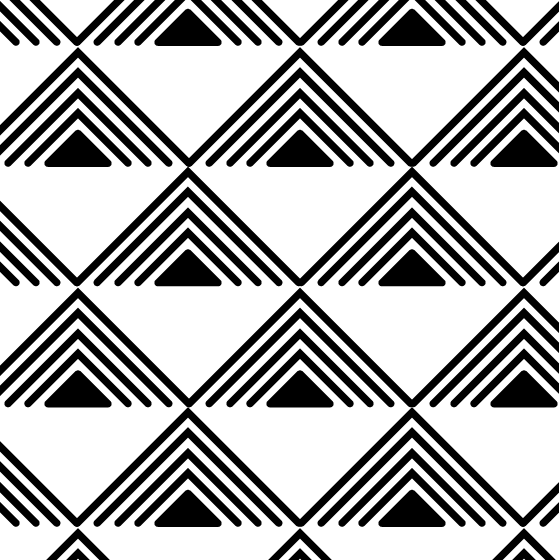
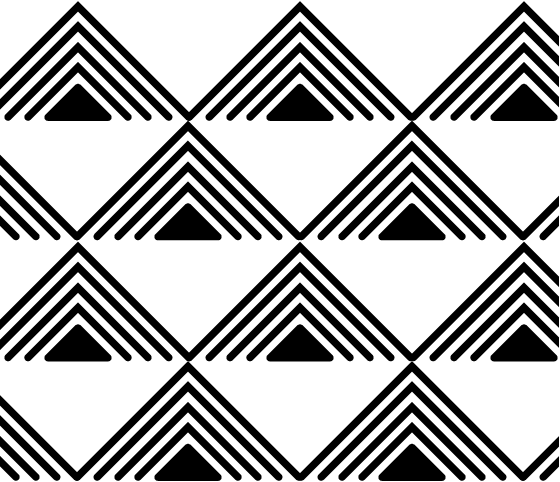
Fix triangle tile background

diff --git a/public/css/styles.less b/public/css/styles.less
@@ -377,8 +377,9 @@ background: #5c7ee6;
 
 .notes li:nth-child(17n+15) {
     background-image: url("/ainsley/tumblr_mpmdenyLTD1qg49aro1_1280.png");
-    background-size: 100%;
-    color: #000;
+    background-position: center center;
+    background-size: 100% auto;
+    color: #000000;
 }
 
 .notes li:nth-child(17n+15) a {
